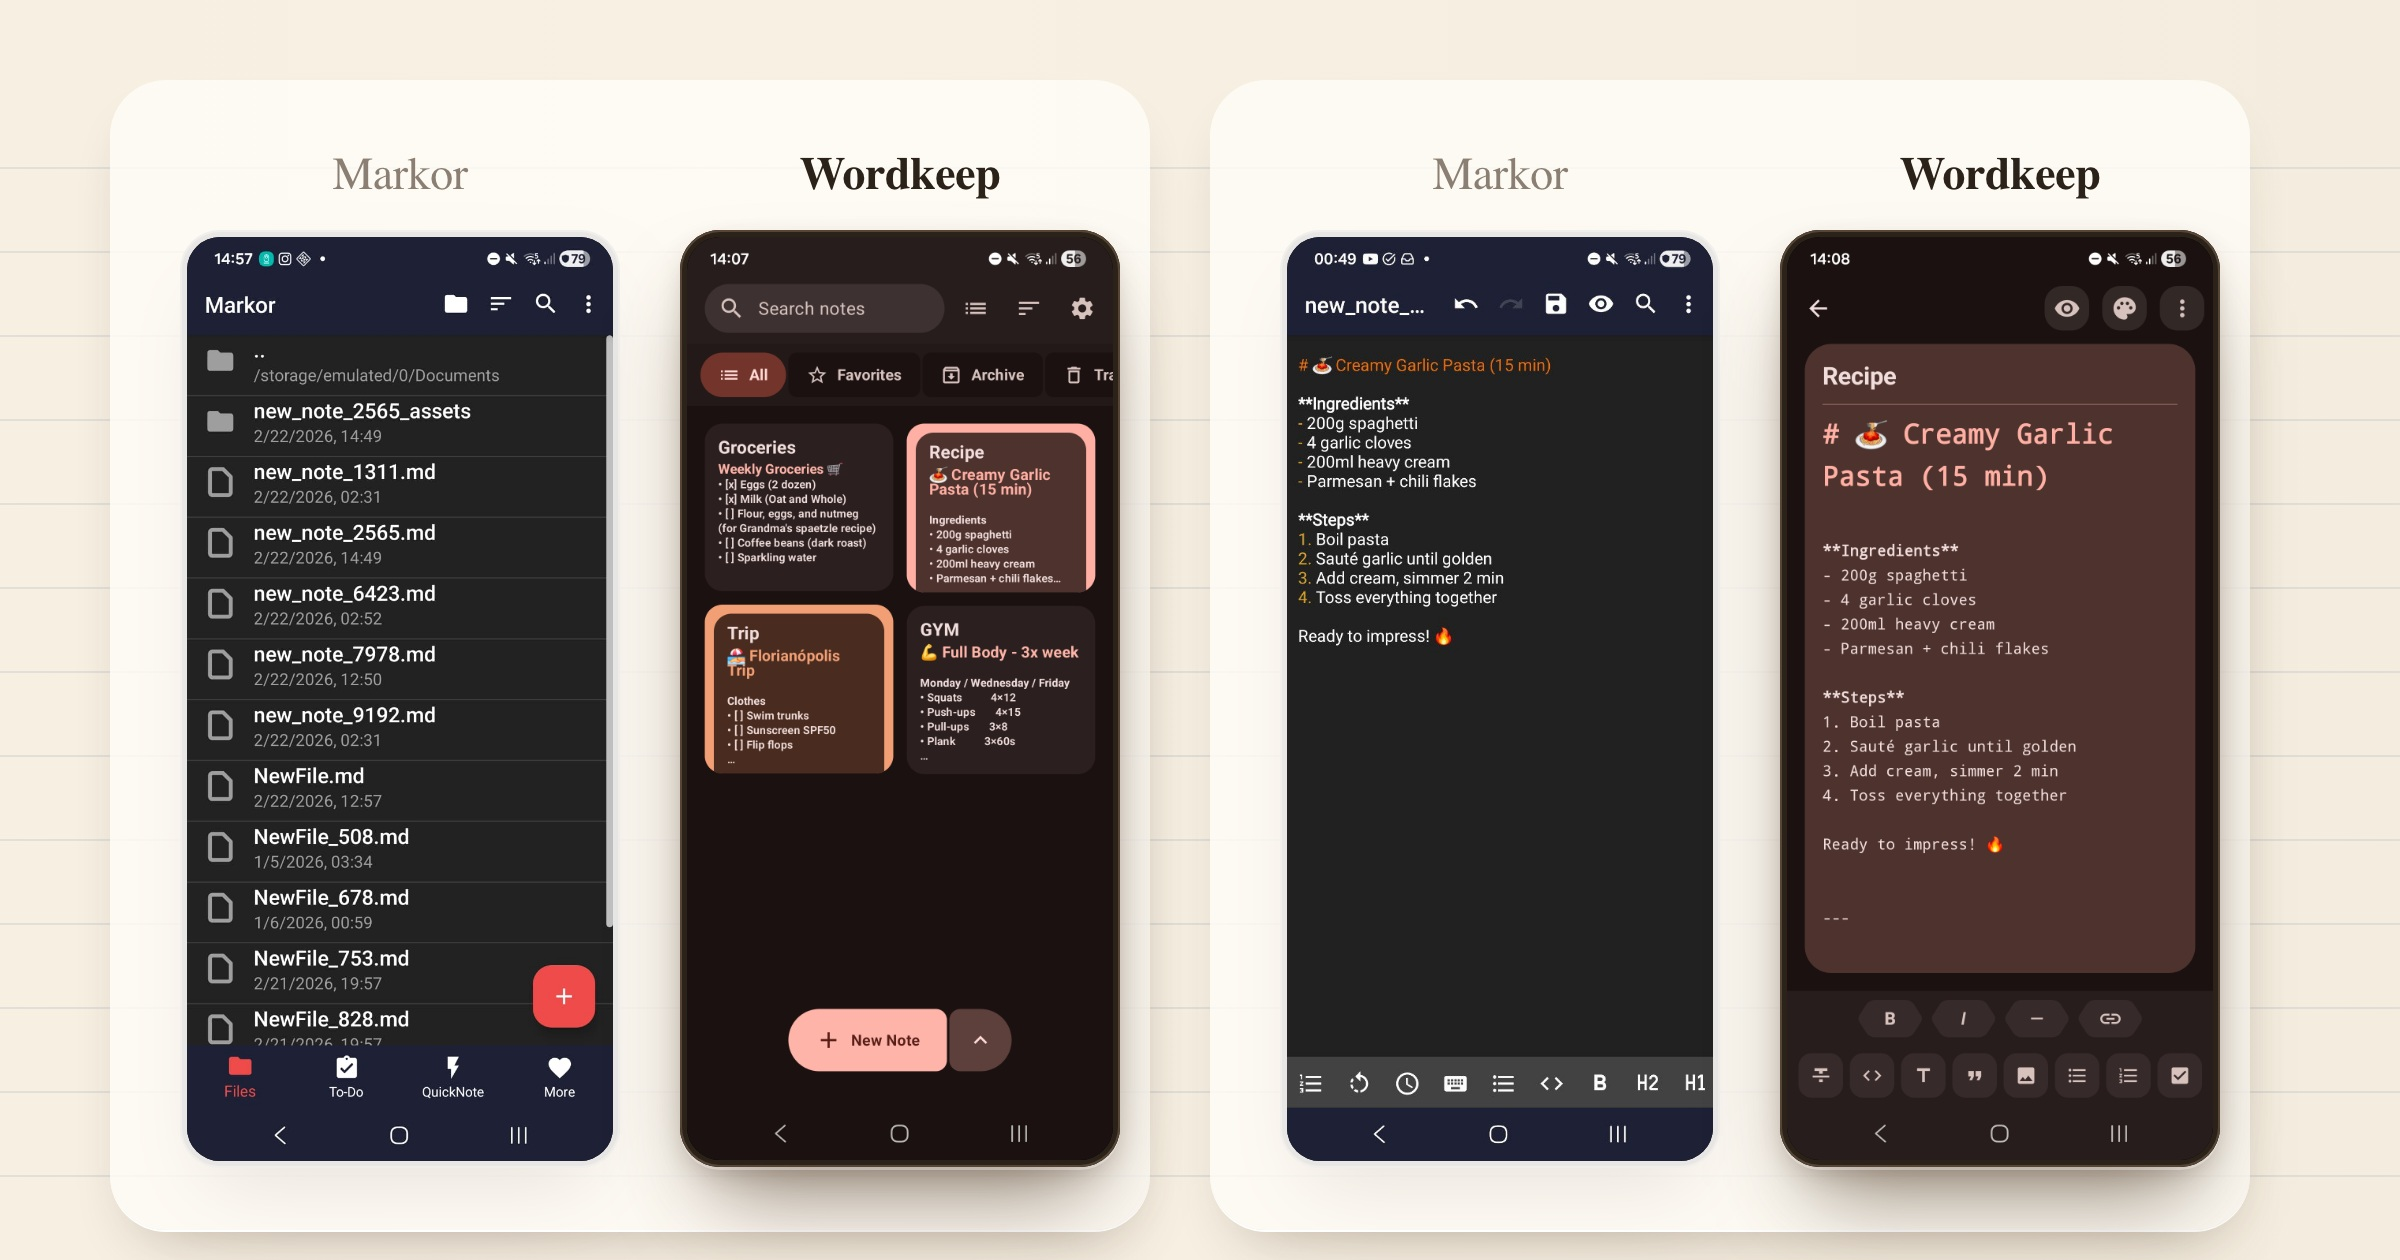
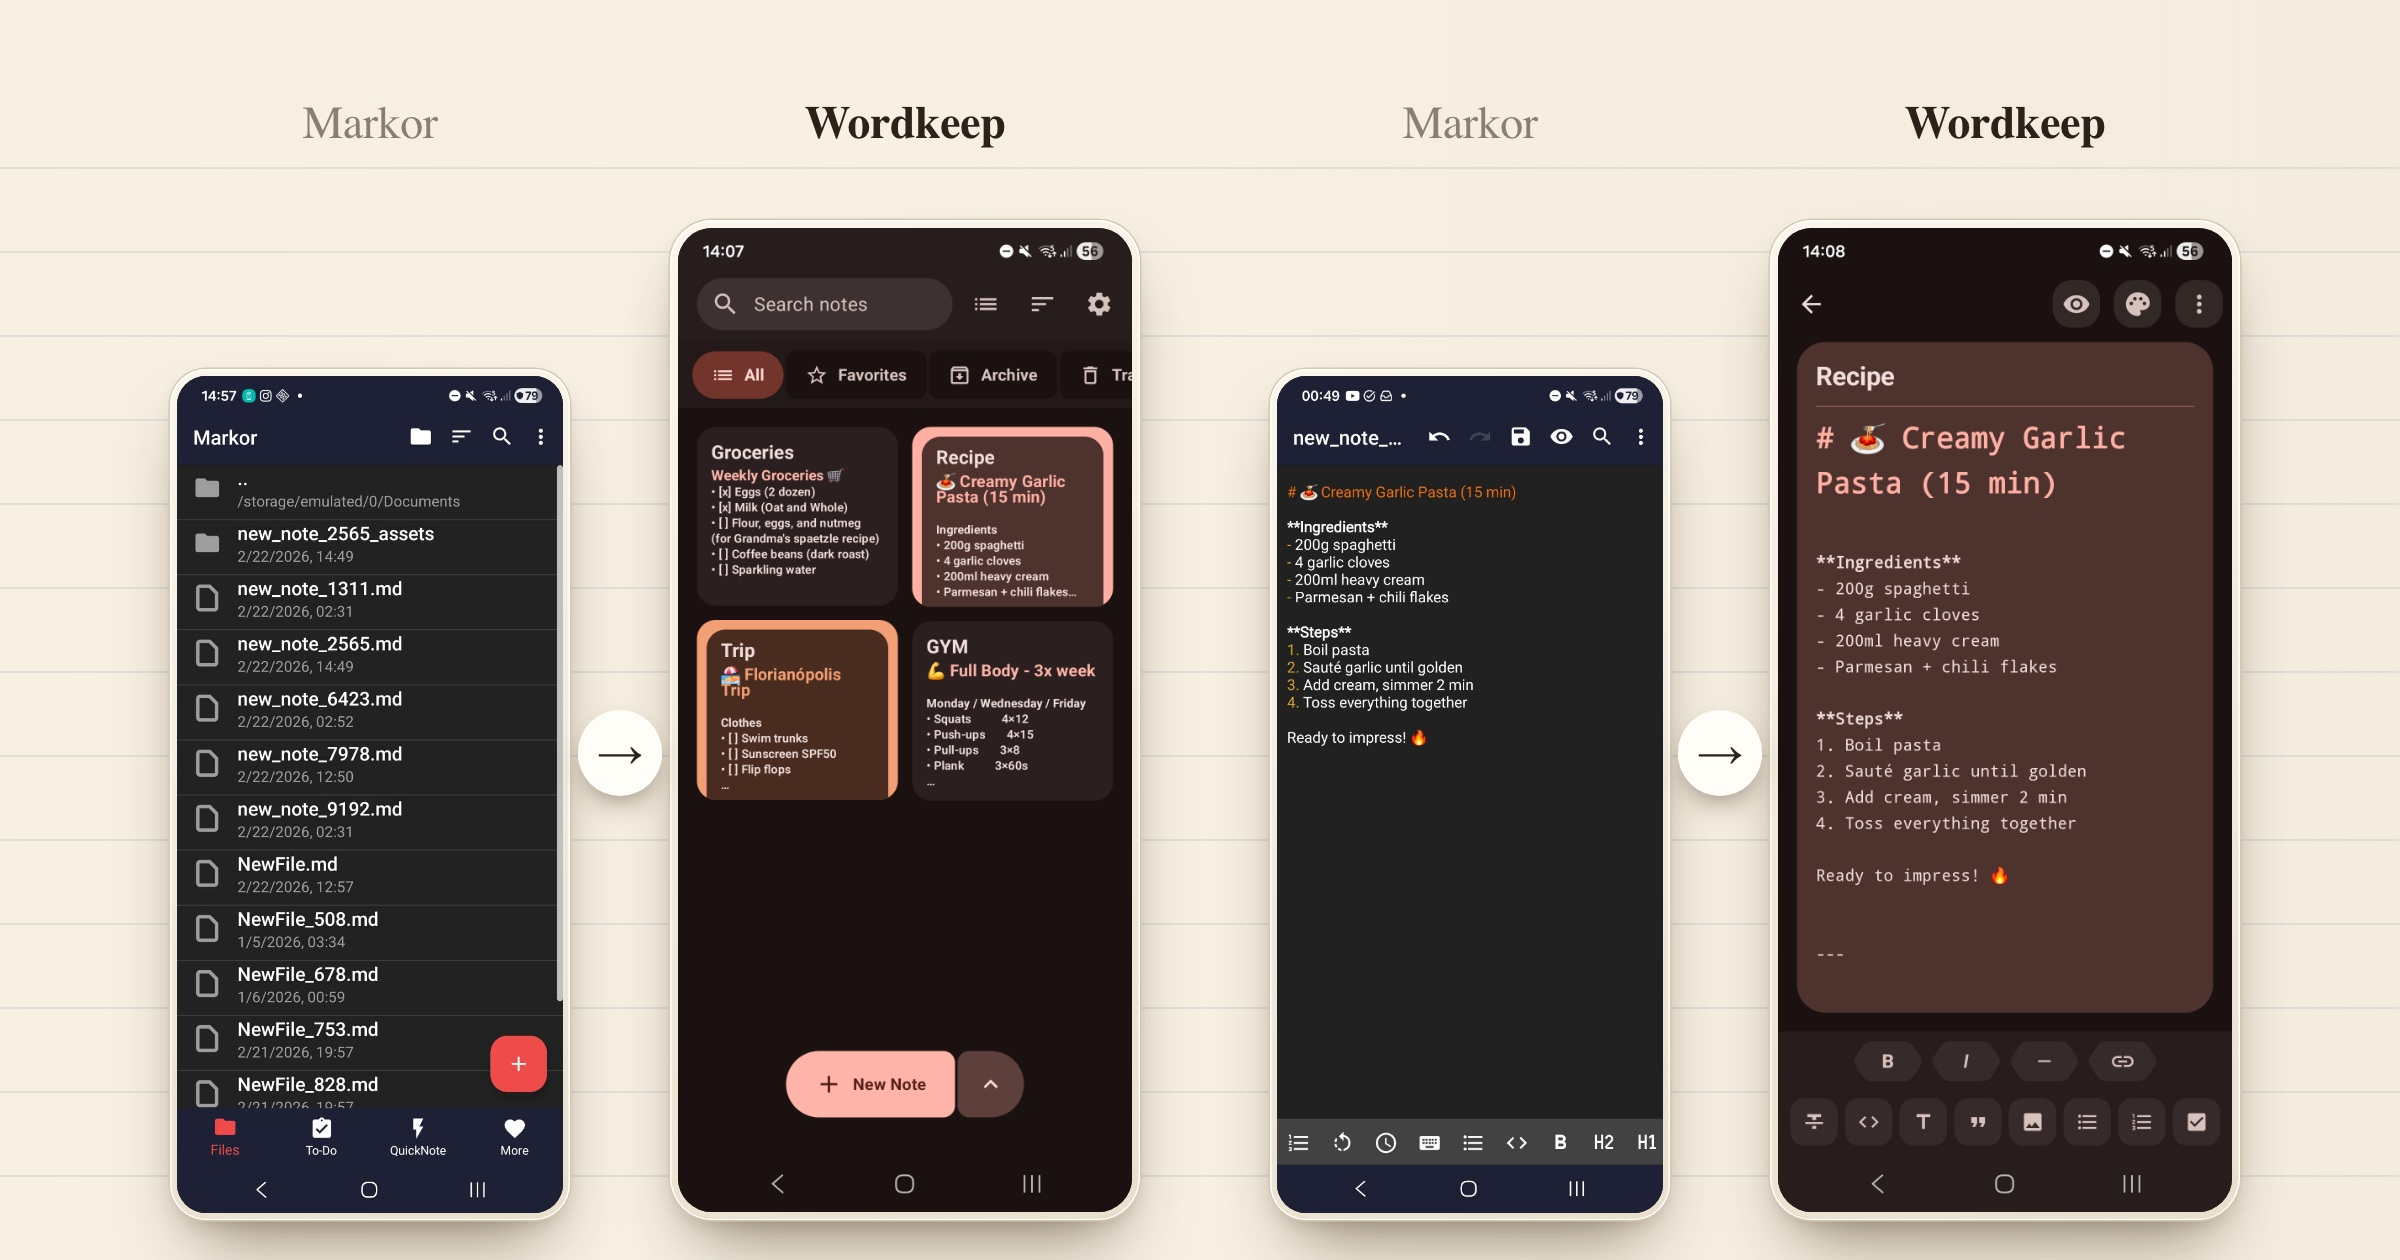
Redraw the Markor and Wordkeep comparison as real phones on one baseline

Changed region(s): [[0.0625, 0.0929, 0.9375, 0.9905], [0.5938, 0.0929, 0.6562, 0.1548], [0.125, 0.0929, 0.1875, 0.1548]]

diff --git a/store-listing/theme.css b/store-listing/theme.css
@@ -62,14 +62,21 @@ header p{margin:28px 0 0;font-size:42px;line-height:1.28;font-weight:400;opacity
 .readme .hero .left{left:250px;top:330px;width:540px}
 .readme .hero .center{left:890px;top:150px;width:620px;z-index:3}
 .readme .hero .right{left:1610px;top:330px;width:540px}
-/* Before and after: the same notes in Markor and in Wordkeep, each pair on its own sheet. */
-.readme .compare .device{width:440px;top:230px}
-.readme .compare .device.before{background:#8a8f99;box-shadow:inset 0 0 0 2px #ffffff60,0 40px 80px -30px #4a3420aa}
-.readme .compare .device.before::before{content:'';position:absolute;z-index:-1;left:-70px;top:-150px;width:1040px;height:1150px;border-radius:56px;background:#fffdf7cc;box-shadow:0 2px 0 #ffffff,0 30px 60px -30px #4a342055}
-.readme .compare .pair1.before{left:180px}
-.readme .compare .pair1.after{left:680px}
-.readme .compare .pair2.before{left:1280px}
-.readme .compare .pair2.after{left:1780px}
+/* Before and after: the same notes in Markor and in Wordkeep. Every phone is the same real device;
+   the original sits a little smaller and lower, the new one steps forward, an arrow between them. */
+.readme .compare .device.before{width:400px;top:auto;bottom:40px}
+.readme .compare .device.after{width:470px;top:auto;bottom:40px;z-index:3}
+.readme .compare .pair1.before{left:170px}
+.readme .compare .pair1.after{left:670px}
+.readme .compare .pair2.before{left:1270px}
+.readme .compare .pair2.after{left:1770px}
+.readme .compare .arrow{position:absolute;z-index:4;width:84px;height:84px;margin:-42px 0 0 -42px;border-radius:50%;background:#fffdf7;
+  box-shadow:0 2px 0 #fff,0 14px 30px -10px #4a3420aa;display:flex;align-items:center;justify-content:center;font:600 46px/1 Serif,serif;color:var(--ink)}
 .device-label{font:600 46px/1.2 Serif,serif;letter-spacing:-.01em}
+/* Names share one line above the phones, which stand on one baseline. */
+.readme .compare .device-label{top:96px !important;transform:none}
 .device-label.before{color:#8a7f72;font-weight:500}
 .device-label.after{color:var(--ink)}
+/* Comparison frames: a warm, light phone body, so dark screens stand out from their frame and the frame belongs on paper. */
+.readme .compare .device{background:linear-gradient(160deg,#fbf6ec,#e9dfcd);
+  box-shadow:inset 0 0 0 1.5px #ffffff,inset 0 -2px 0 #d8cab3,0 0 0 1.5px #d6c7ae,0 40px 70px -28px #4a3420a0,0 8px 20px -8px #4a342040}

diff --git a/store-listing/theme.js b/store-listing/theme.js
@@ -58,6 +58,18 @@ export default {
   // Single devices keep their status bar and left side inside the card (landscape may run off the right)
   // and show most of the screen.
   decorate({W, H, slide, devices}) {
+    if (slide.layout === 'compare') {
+      // An arrow from each original to its new screen, centred in the gap between the two frames.
+      for (let i = 0; i + 1 < devices.length; i += 2) {
+        const before = devices[i].box, after = devices[i + 1].box;
+        const arrow = document.createElement('div');
+        arrow.className = 'arrow';
+        arrow.dataset.checkBounds = '';
+        arrow.textContent = '→';
+        Object.assign(arrow.style, {left: `${(before.left + before.width + after.left) / 2}px`, top: `${before.top + before.height * .45}px`});
+        devices[i].node.parentElement.append(arrow);
+      }
+    }
     if (/stack|pair|duo|drop/.test(slide.layout || '')) return;
     for (const {box, spec} of devices) {
       if (box.left < 12 || box.top < 12 || (W < H && box.left + box.width > W - 12)) throw new Error(`Device leaves the card: ${spec.raw}`);
